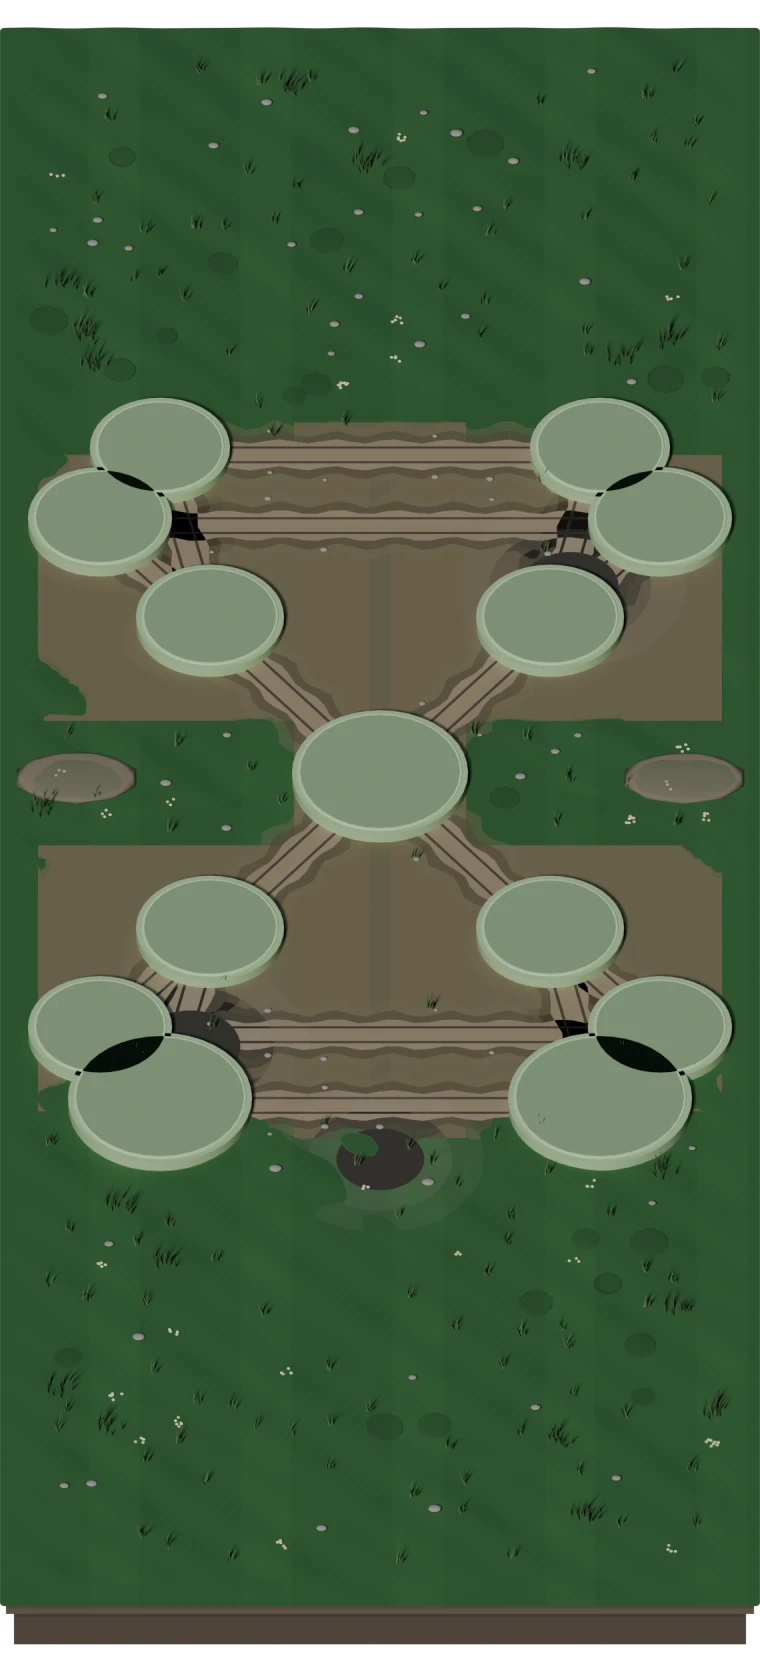
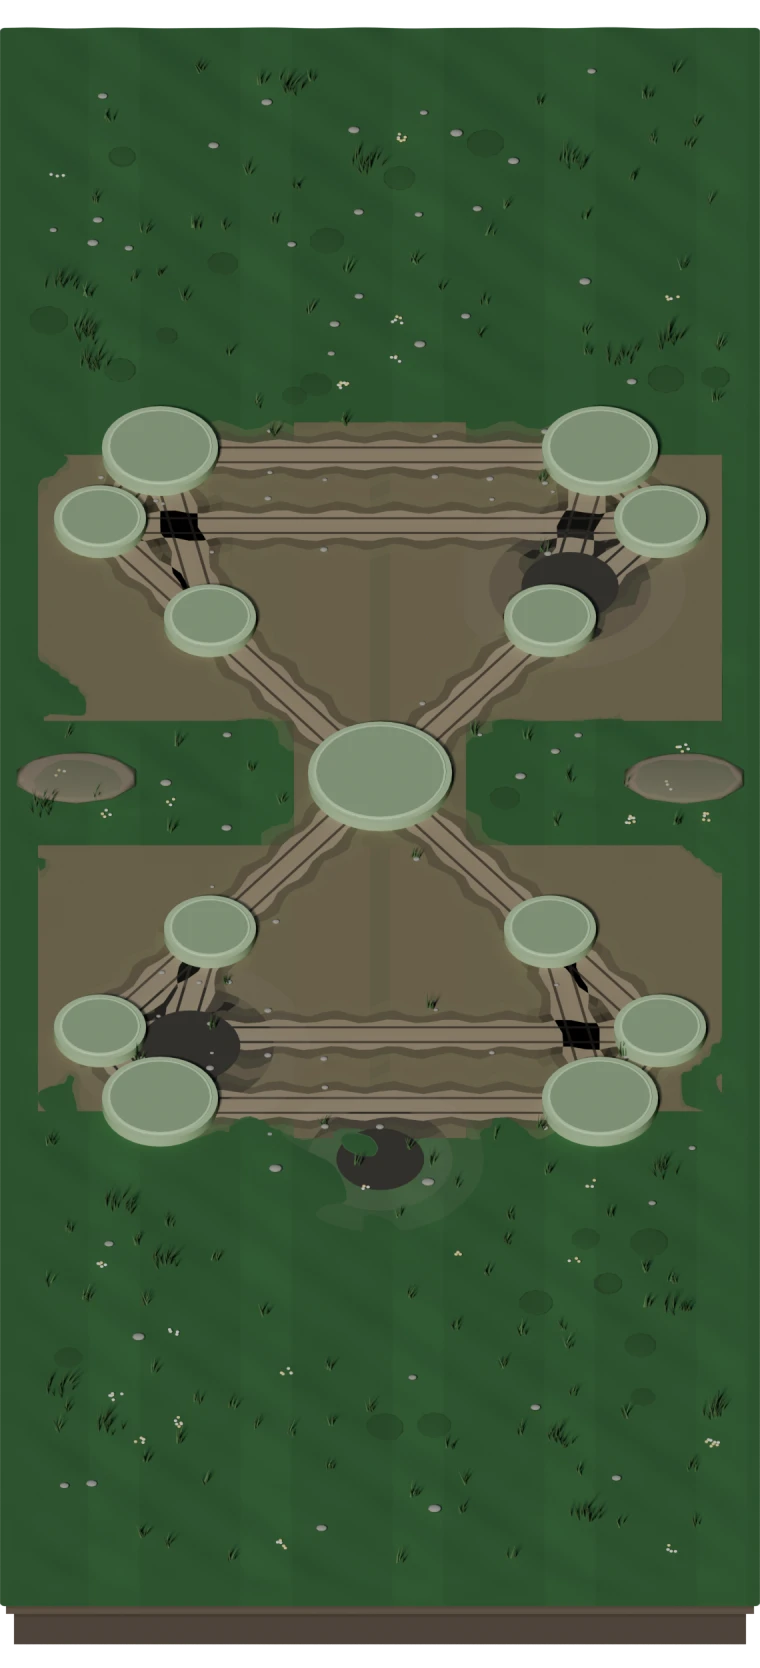
art: open air between territory platforms and fortresses
The flank columns read as touching chains at phone size: ownership
rings were radius+10 (74px platforms with ~16px gaps on Crown Cross,
~6px on Royal Ring), building sprites overshot their platforms far
enough that a lower tower's roof met the upper tower's icon stack, and
Quad Citadel's baked plinths still used radius+10 while the client had
tuned its sockets to 23/29/36 — stone platforms overlapped each other
by ~24px and the ownership ring floated mid-platform.

Presentation-only change (hit areas, server geometry and gameplay are
untouched):

- territoryArtFootprint: non-quad sockets shrink radius+10 -> radius+5
  (top citadels 35 -> 32); building sprites shrink ~11% per tier
  (Crown 64/76/86/72, others 64/80/92/74, Quad 44/68/58), so adjacent
  fortresses keep clear silhouette air and roofs drop below the
  neighbouring icon stacks
- crown_cross_kit _socket_radius now mirrors the client EXACTLY,
  including the Quad branch, so the baked plinths and AO discs match
  the rings that trace their lips; all 4 plates re-rendered
- board scales as one unit at every viewport (layout scale 1..1.04),
  so the separation reads identically on small and large phones

Measured: min ring air Crown 16->27px, Twin 22->29px, Royal 6->16px,
Quad plinth overlap -24 -> +6 world units; min silhouette air 53-65px
per map. ART_BIBLE section 10 updated.

Validation: typecheck, full npm test (610 game tests incl. socket-gap
and top-citadel HUD constraints), build, 5x3 QA captures (4 maps +
[…]

diff --git a/apps/game/src/art/BattlefieldArt.ts b/apps/game/src/art/BattlefieldArt.ts
@@ -366,9 +366,13 @@ export function territoryArtFootprint(battlefieldId: BattlefieldId, territory: T
   const topCitadel = territory.type === 'fortress' && territory.tier === 3 && territory.y <= 150;
   // Quad Citadel's base/corner centers are only sqrt(3400) px apart. These
   // radii leave visible air between their sockets without altering geometry.
+  // Every other battlefield keeps a compact +5 socket: the ownership ring
+  // and the baked plinth stay one readable step inside the hit area while
+  // adjacent platforms get real air between them (radius+10 left the flank
+  // columns nearly touching at phone size).
   const socketRadius = quad
     ? territory.tier === 3 ? 29 : territory.tier === 2 ? 36 : 23
-    : topCitadel ? 35 : territory.radius + 10;
+    : topCitadel ? 32 : territory.radius + 5;
   const badgeY = quad
     ? territory.tier === 3 ? topCitadel ? 13 : 18 : territory.tier === 2 ? 18 : 14
     : territory.tier === 3 ? 25 : territory.tier === 2 ? 21 : 17;
@@ -378,9 +382,13 @@ export function territoryArtFootprint(battlefieldId: BattlefieldId, territory: T
     ringRadius: socketRadius,
     shadowWidth: socketRadius * 2,
     shadowHeight: socketRadius * 0.75,
-    spriteSize: crown ? topCitadel ? 78 : territory.tier === 3 ? 94 : territory.tier === 2 ? 84 : 72 : quad
-      ? territory.tier === 3 ? 64 : territory.tier === 2 ? 76 : 48
-      : topCitadel ? 82 : territory.tier === 3 ? 102 : territory.tier === 2 ? 88 : 72,
+    // Building sprites: sized for presence but compact enough that adjacent
+    // fortresses keep clear air between their silhouettes on every phone —
+    // the board layout scales together at every viewport, so the separation
+    // reads identically from 360px to 430px wide screens.
+    spriteSize: crown ? topCitadel ? 72 : territory.tier === 3 ? 86 : territory.tier === 2 ? 76 : 64 : quad
+      ? territory.tier === 3 ? 58 : territory.tier === 2 ? 68 : 44
+      : topCitadel ? 74 : territory.tier === 3 ? 92 : territory.tier === 2 ? 80 : 64,
     spriteY: crown ? topCitadel ? 2 : -15 : topCitadel ? 6 : quad ? -5 : -8,
     badgeY,
     sharedCueX: territory.x < 200 ? -33 : 33,

diff --git a/art/blender/crown_cross_kit.py b/art/blender/crown_cross_kit.py
@@ -1107,7 +1107,7 @@ def _ground_sockets(bf, ao_mat, plinth_top_z=0.04, diorama=False):
     the disc stays inside the plinth rim so nothing floats over the edge."""
     for territory in bf['territories']:
         x, y = _to_plane(territory['x'], territory['y'])
-        radius = (_socket_radius(territory) - 4.0) if diorama else (territory['radius'] + 6.0)
+        radius = (_socket_radius(bf, territory) - 4.0) if diorama else (territory['radius'] + 6.0)
         cyl('socket shade', radius, .02, (x, y, plinth_top_z), ao_mat, 32)
 
 
@@ -1360,16 +1360,26 @@ def _is_diorama_ground(battlefield_id):
     return battlefield_id in DIORAMA_GROUND_BATTLEFIELDS
 
 
-def _socket_radius(territory):
-    """Platform radius mirrored from the client's territoryArtFootprint."""
+def _socket_radius(bf, territory):
+    """Platform radius mirrored EXACTLY from the client's territoryArtFootprint.
+
+    The client traces its ownership ring on the baked plinth's lip, so any
+    drift here shows up as a ring floating inside (or outside) its stone
+    platform. Quad Citadel tunes bespoke sockets because its base/corner
+    centers are only sqrt(3400) px apart; every other battlefield uses the
+    compact radius+5 socket (top citadels get 32)."""
+    battlefield_id = bf['id']
+    tier = territory.get('tier')
     top_citadel = (
         territory.get('type') == 'fortress'
-        and territory.get('tier') == 3
+        and tier == 3
         and territory.get('y', 999) <= 150
     )
+    if battlefield_id == 'quad_citadel':
+        return 29.0 if tier == 3 else 36.0 if tier == 2 else 23.0
     if top_citadel:
-        return 35.0
-    return territory['radius'] + 10.0
+        return 32.0
+    return territory['radius'] + 5.0
 
 
 def _diorama_slab(make_material):
@@ -1413,7 +1423,7 @@ def _diorama_plinths(bf, make_material):
     rim_mat = make_material('rgx_plinth_rim', rim, .8, use_gradient=False)
     for territory in bf['territories']:
         x, y = _to_plane(territory['x'], territory['y'])
-        r = _socket_radius(territory)
+        r = _socket_radius(bf, territory)
         # Base sinks DIORAMA_PLINTH_SINK into the meadow so no gap shows.
         cyl('socket plinth', r, DIORAMA_PLINTH_HEIGHT, (x, y, DIORAMA_PLINTH_HEIGHT / 2.0 - DIORAMA_PLINTH_SINK), mat, 40)
         # Thin lighter rim course standing PROUD of the plinth top: reads as

diff --git a/ART_BIBLE.md b/ART_BIBLE.md
@@ -368,8 +368,12 @@ The snippet above is illustrative only.
   (9–11 per map, see the environment pack) at prop layer depth, plus low-contrast
   painted blades on the Crown Cross floor. Grass never overlaps sockets, roads
   or the arena frame (enforced by BattlefieldArt tests).
-* **Territory platforms:** circular, diameter = `2 × territory radius` (+7px plinth,
-  +10px ownership ring). Bases (Tier 3, r=36) read ~3× larger than the smallest prop.
+* **Territory platforms:** circular, diameter = `2 × territory radius` (+5px ownership
+  ring/plinth; Quad Citadel tunes bespoke sockets — 23/29/36 by tier — because its
+  base/corner centers are only sqrt(3400) px apart). Bases (Tier 3, r=36) read ~3×
+  larger than the smallest prop. Platform and sprite sizes are presentation-only and
+  scale with the board layout, so the separation between adjacent platforms reads
+  identically from 360px to 430px wide phones; hit areas stay `radius × 2.5`.
 * **Vertical relief:** buildings may rise above their platform (sprite anchored
   bottom-center on the plinth top — `PLINTH_TOP_LIFT`), and on the diorama board the
   playfield itself rises too (plinth platforms, extruded slab skirt) through the fixed
